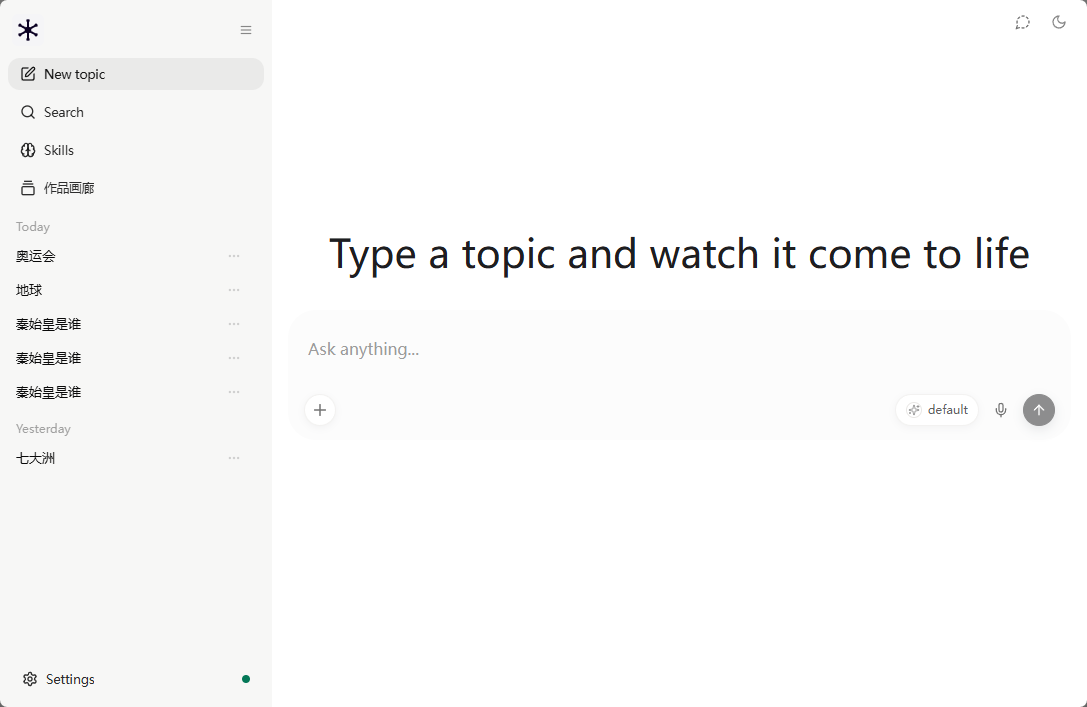
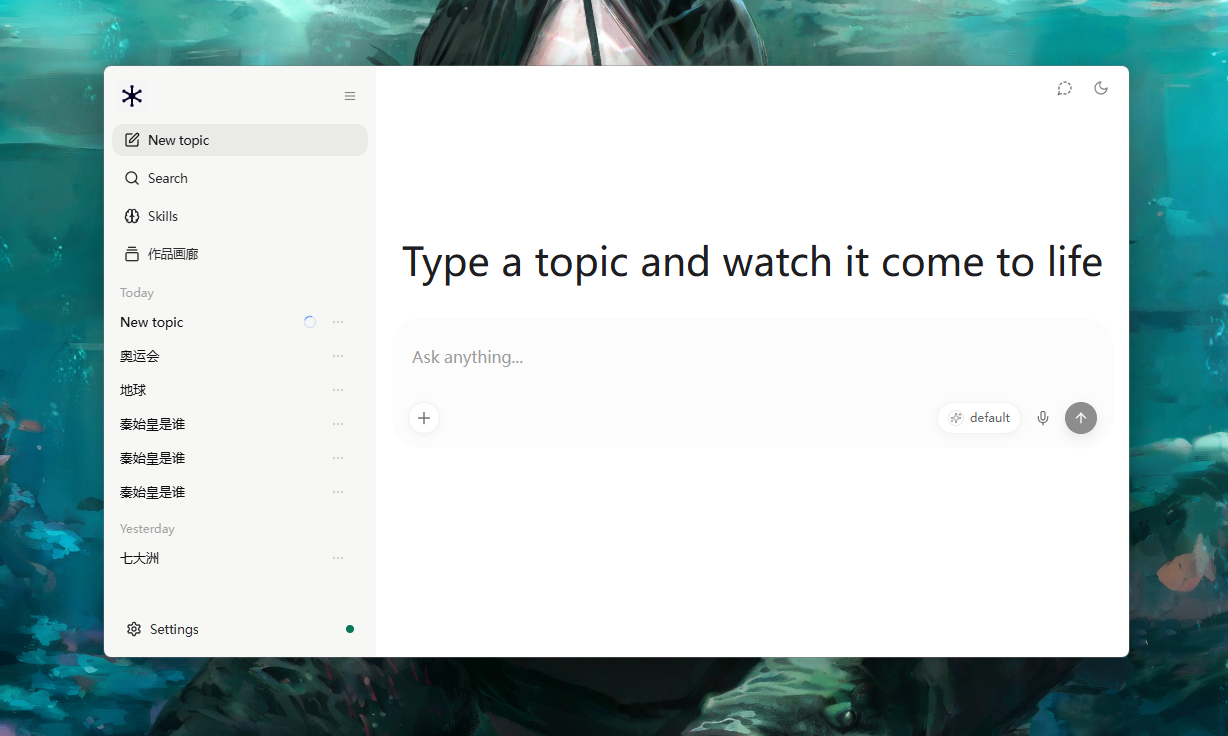
fix: 生成断连可取消 + 会话删除幂等 + 静默超时报错
- compat.py /v1/responses：每 1s 轮询 is_disconnected()，前端 stop/删会话断连立即取消编排任务并跳过落盘（被删会话不再被救回）
- 静默超时 300s（config.generate_stall_timeout）→ 取消任务并报 AI 响应超时
- deleteSession 幂等：DELETE 200 即已删除（新建未落盘会话不再卡列表删不掉）
- writeSessionUpdateChatIds 顺手清 LEGACY completed-runs 残留键
- 更新 01-composer.png（README 真实运行截图）

diff --git a/webui/src/lib/lumen-api.ts b/webui/src/lib/lumen-api.ts
@@ -246,8 +246,10 @@ export async function deleteSession(
     { method: "DELETE", credentials: "same-origin" },
   );
   if (!res.ok) throw new ApiError(res.status, `HTTP ${res.status}`);
-  const body = (await res.json()) as { ok?: boolean };
-  return { deleted: body.ok === true, blocked_by_automations: false };
+  // 幂等：DELETE 200 即视为已删除。后端 ok:false 只表示"project 不存在"——
+  // 新建会话还没落盘就点删除时后端找不到，但对 UI 来说会话必须能从列表移除，
+  // 否则会卡在列表里"删不掉"。
+  return { deleted: true, blocked_by_automations: false };
 }
 
 /** 深度后端无自动化——恒空列表，保持接口形状。 */

diff --git a/webui/src/tests/lumen-api.test.ts b/webui/src/tests/lumen-api.test.ts
@@ -132,9 +132,11 @@ describe("deleteSession", () => {
     expect((init as RequestInit).method).toBe("DELETE");
   });
 
-  it("reports not deleted when the backend says no", async () => {
+  it("treats a not-found project as already deleted (idempotent)", async () => {
+    // 新建会话未落盘就删除：后端 delete_project 找不到 → ok:false（HTTP 200）。
+    // 对 UI 而言会话应视为已删（否则卡在列表删不掉）。
     vi.stubGlobal("fetch", stubFetch(async () => jsonResponse({ ok: false })));
-    expect((await deleteSession("lumen:a1b2c3d4")).deleted).toBe(false);
+    expect((await deleteSession("lumen:a1b2c3d4")).deleted).toBe(true);
   });
 });
 

diff --git a/webui/src/App.tsx b/webui/src/App.tsx
@@ -426,6 +426,8 @@ function writeSessionUpdateChatIds(chatIds: Set<string>): void {
       SESSION_UPDATES_STORAGE_KEY,
       JSON.stringify(Array.from(chatIds)),
     );
+    // 旧版 completed-runs 键只读不写——迁移完成后顺手清掉，不留永久残留
+    window.localStorage.removeItem(LEGACY_COMPLETED_RUNS_STORAGE_KEY);
   } catch {
     // ignore storage errors (private mode, etc.)
   }

diff --git a/backend/app/api/compat.py b/backend/app/api/compat.py
@@ -22,7 +22,7 @@ import logging
 import time
 import uuid
 
-from fastapi import APIRouter, Header
+from fastapi import APIRouter, Header, Request
 from fastapi.responses import JSONResponse, StreamingResponse
 from pydantic import BaseModel
 
@@ -142,7 +142,11 @@ def _friendly_error(e: Exception) -> str:
 # ── 主端点 ──
 
 @router.post("/v1/responses")
-async def responses(req: ResponsesRequest, authorization: str | None = Header(None)):
+async def responses(
+    req: ResponsesRequest,
+    request: Request,
+    authorization: str | None = Header(None),
+):
     msgs = _parse_input(req.input)
     query = _last_user_text(msgs)
     if not query:
@@ -245,11 +249,27 @@ async def responses(req: ResponsesRequest, authorization: str | None = Header(No
 
         result = None
         # ── 流式转发思考文本 ──
+        # 断连检测：前端 stop / 关页面 = SSE 断开。Starlette 只在 yield 之间检查断连，
+        # 队列长时间无事件时会卡住 → 这里每 1s 轮询一次：断连立即 return（finally 里
+        # task.cancel() 取消编排任务，且跳过下方落盘——被删会话不会被救回）。
+        # is_disconnected() 用 anyio CancelScope 实现，非阻塞：无缓冲 disconnect 消息即返回 False。
+        stall_limit = int(settings.generate_stall_timeout)
+        silent_seconds = 0
         try:
             while True:
-                # 单步 LLM 调用（尤其 render 生成整页 HTML）可长达几分钟——
-                # 90s 队列超时会把正常长生成误判中断。对齐 LLM 调用上限 600s。
-                item = await asyncio.wait_for(queue.get(), timeout=600)
+                if await request.is_disconnected():
+                    logger.info("compat=disconnect | session=%s", session_id)
+                    return
+                try:
+                    # 1s 小超时：既允许每轮轮询断连，又不改变"无事件则一直等"的语义。
+                    item = await asyncio.wait_for(queue.get(), timeout=1)
+                except asyncio.TimeoutError:
+                    silent_seconds += 1
+                    if silent_seconds >= stall_limit:
+                        # 完全静默超时（无任何 SSE 事件）→ 判卡死，走下方超时分支取消任务
+                        raise asyncio.TimeoutError
+                    continue
+                silent_seconds = 0
                 if item is _END:
                     break
                 if isinstance(item, dict):
@@ -263,6 +283,8 @@ async def responses(req: ResponsesRequest, authorization: str | None = Header(No
             if task and not task.cancelled():
                 result = task.result()
         except asyncio.TimeoutError:
+            # 静默超时也要让用户看到明确的失败原因（而不是流无声结束）
+            terminal["error"] = _friendly_error(asyncio.TimeoutError("timeout"))
             logger.warning("compat=timeout | session=%s", session_id)
         except Exception as e:
             terminal["error"] = _friendly_error(e)

diff --git a/backend/app/config.py b/backend/app/config.py
@@ -35,6 +35,10 @@ class Settings(BaseSettings):
     # render 自检重试 / design 重试 / search 换词 / 质量审查回退
     llm_steps: int = Field(10, ge=1, le=100)
 
+    # 生成过程中完全静默（无任何 SSE 事件）的最长秒数——超时取消编排任务并报"响应超时"。
+    # 单步 LLM 调用（尤其 render 整页 HTML）可长达几分钟，默认给足 300s；再久判卡死。
+    generate_stall_timeout: int = Field(300, ge=30, le=3600)
+
     # ── 安全（本地工具的健壮性护栏，非公网防护）──
     input_max_length: int = Field(500, ge=10, le=2000, description="用户输入最大长度（字符）")
     cors_origins: list[str] = Field(
